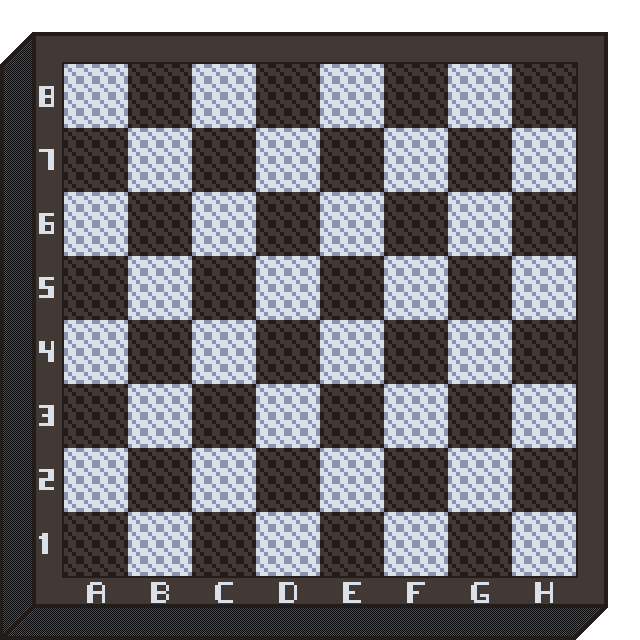
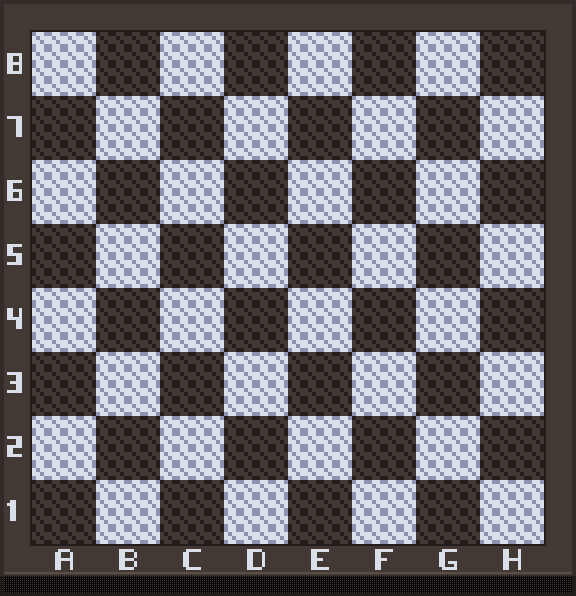
Update game sprites.

diff --git a/src/src/board/GameMaster.ts b/src/src/board/GameMaster.ts
@@ -1,7 +1,7 @@
 import { GameSquere } from "./GameSquere";
 import { TurnManager } from "./TurnManager";
 import { GameBoardConst } from "./GameBoardConst";
-import { GamePawnType, MovementType, PlayerType, SquereSuggestionCaptureInfo, SuggestionData } from "./types";
+import { GameOverType, GamePawnType, MovementType, PlayerType, SquereSuggestionCaptureInfo, SuggestionData } from "./types";
 import { addPointToPoint, getOppositeDirection } from "../GameUtils";
 import { ScoreBoard } from "./ScoreBoard";
 import { Point } from "../common/type";
@@ -149,7 +149,8 @@ export class GameMaster {
         this._selectedSquere.pawn?.highlight();
         this._boardStats.updateTurn(this._turnManager.currentTurn);
 
-        this.calculateSuggestion();
+        const info = this.calculateSuggestion();
+        this.checkForGameOver(info);
     }
 
 
@@ -177,8 +178,13 @@ export class GameMaster {
             return false;
         }
 
-        this.calculateSuggestion();
+        const info = this.calculateSuggestion();
         const canMove = this._suggestedFields.some(q => q.moveType === MovementType.CaptureAfterEnemy);
+
+        // check if game over
+        this.checkForGameOver(info);
+
+
         if (!canMove) {
             this.clearSuggestions();
         }
@@ -193,8 +199,8 @@ export class GameMaster {
         return lastSuggestion;
     }
 
-    private calculateSuggestion() {
-        if (!this._selectedSquere) return;
+    private calculateSuggestion(): SquereSuggestionCaptureInfo | null {
+        if (!this._selectedSquere) return null;
 
         const captureInfo = this.checkForCaptures();
         const suggestedFields = captureInfo.currentSquere;
@@ -214,6 +220,8 @@ export class GameMaster {
         }
 
         this._suggestedFields = suggestedFields;
+
+        return captureInfo;
     }
 
     private getSuggestions(startingSquere: GameSquere): SuggestionData[] {
@@ -378,7 +386,47 @@ export class GameMaster {
 
         return {
             currentSquere: selectedSquereSuggestions || [],
-            other: otherSuggestions || []
+            other: otherSuggestions || [],
+            currentPlayerSqueres
         };
+    }
+
+    private checkForGameOver(currentMoveInfo: SquereSuggestionCaptureInfo | null): GameOverType {
+
+        let res = GameOverType.None;
+
+        if (!currentMoveInfo) return res;
+
+        if (currentMoveInfo.currentPlayerSqueres.length === 0) {
+            // isGameOver = true;
+            res = GameOverType.NoPawns;
+        }
+
+        const allowedMoves = [MovementType.CaptureAfterEnemy, MovementType.Normal];
+        // currentMoveInfo.currentSquere.map(q => q.moveType).some(q => allowedMoves.includes(q));
+
+
+        const allMoves: SuggestionData[] = [];
+        allMoves.push(...currentMoveInfo.currentSquere, ...currentMoveInfo.other);
+        let anyMovesLeft = allMoves.reduce((prev, curr) => {
+            const tmp = prev || allowedMoves.includes(curr.moveType);
+            return tmp;
+        }, true);
+
+        if (!anyMovesLeft) {
+            res = GameOverType.NoMoves;
+        }
+        // if (currentMoveInfo.currentSquere.some(q => !allowedMoves.includes(q.moveType))) {
+        //     // isGameOver = true;
+        //     res = GameOverType.NoMoves;
+        // }
+
+
+        if (res !== GameOverType.None) {
+            alert("GAME OVER!\n" + `${this._turnManager.opponentType} winn!`);
+        }
+
+
+        return res;
     }
 }

diff --git a/src/src/board/GameSquere.ts b/src/src/board/GameSquere.ts
@@ -9,6 +9,7 @@ import { Point } from "../common/type";
 import * as phaser from "phaser";
 import { GameContext } from "../common/GameContex";
 import { GameBoardConst } from "./GameBoardConst";
+import { getPawnYOffset } from "./GameMasterUtils";
 
 
 interface GameSquereHandlersProps {
@@ -108,8 +109,8 @@ export class GameSquere {
     }
 
     addEffect(pawn: Pawn) {
-        this._effects.push(pawn);
         this.pawn?.hide();
+        this._effects.push(pawn);
     }
 
     removeEffects() {
@@ -250,7 +251,8 @@ export class Pawn {
     }
 
     move(point: Point) {
-        this.image?.setPosition(point.x, point.y);
+        const targetWordPos = getPawnYOffset(point, this.pawnType)
+        this.image?.setPosition(targetWordPos.x, targetWordPos.y);
     }
 
     removePawn() {
@@ -266,9 +268,10 @@ export class Pawn {
                 : GamePawnType.blackQueen;
         this.setPawnType(newType);
 
+        const pos = getPawnYOffset({ x: this.image!.x, y: this.image!.y }, this.pawnType);
         const queenImg = GameContext.instance.currentScene.add.image(
-            this._image!.x,
-            this._image!.y,
+            pos.x,
+            pos.y,
             AllBoardImageMap[newType]
         ).setName(newType).setInteractive();
         this._image!.destroy();
@@ -282,10 +285,14 @@ export class Pawn {
 
     hide() {
         this.image?.setVisible(false);
+        this.image?.setActive(false);
+        this.image?.disableInteractive();
     }
 
     show() {
         this.image?.setVisible(true);
+        this.image?.setActive(true);
+        this.image?.setInteractive();
     }
 
     unHighlight() {

diff --git a/src/src/board/GameBoard.ts b/src/src/board/GameBoard.ts
@@ -24,6 +24,7 @@ import { loadGame } from "../common/SaveGame";
 import { loadData, saveData } from "./GameBoardSaveManager";
 import { SceneConst } from "../common/SceneConst";
 import { createGameSquereRectangleHandlers, createPawn } from "./ObjectFactory";
+import { getPawnYOffset } from "./GameMasterUtils";
 
 export class GameBoard implements IGameLoopObject {
   private readonly _gameBoard: GameSquere[][] = [];
@@ -190,12 +191,13 @@ export class GameBoard implements IGameLoopObject {
     }
 
     getNewImage({ x: 32, y: 32 }, "game_board").setOrigin(0, 0);
-    GameContext.instance.currentScene.add.rectangle();
+    // GameContext.instance.currentScene.add.rectangle();
 
     const boardCellPosStyle = {
       fontFamily: GameBoardConst.fontFamily,
       color: "green",
     };
+
     for (let row = 0; row < GameBoardConst.numRows; row++) {
       this._gameBoard[row] = [];
       for (let col = 0; col < GameBoardConst.numCols; col++) {
@@ -226,11 +228,8 @@ export class GameBoard implements IGameLoopObject {
             ? GamePawnType.blackPawn
             : GamePawnType.whitePawn;
           const playerType = blackPawn ? PlayerType.black : PlayerType.white;
-          const pawnPos = addPointToPoint(gameSquere.wordPosition, {
-            x: 0,
-            y: -4,
-          });
 
+          const pawnPos = getPawnYOffset(gameSquere.wordPosition, pawnType);
           const img = getNewImage(pawnPos, pawnType).setName(pawnType).setInteractive();
           const pawnToAdd = createPawn(this, this._gameMaster, img, pawnType, playerType, gameSquere);
           gameSquere.addPawn(pawnToAdd);

diff --git a/src/src/scenes/GameBoardScene.ts b/src/src/scenes/GameBoardScene.ts
@@ -18,14 +18,7 @@ export class GameBoardScene extends Phaser.Scene {
     }
 
     preload(): void {
-        // this.load.spritesheet('game_board', 'assets/board/all_sprites.png', { });
-        this.load.spritesheet({
-            key: 'game_board',
-            url: 'assets/board/all_sprites.png',
-            frameConfig: { startFrame: 0, frameWidth: 576, frameHeight: 596, endFrame: 1, margin: 32 }
-        })
-
-        // this.load.image('game_board', 'assets/board/game_board.png');
+        this.load.image('game_board', 'assets/board/game_board.png');
 
         this.load.image('white_pawn', 'assets/board/white_pawn.png');
         this.load.image('black_pawn', 'assets/board/black_pawn.png');
@@ -34,9 +27,6 @@ export class GameBoardScene extends Phaser.Scene {
 
         this.load.image('shadow_pawn', 'assets/board/shadow_pawn.png');
         this.load.image('not_allowed', 'assets/board/not_allowed.png');
-
-        this.load.image('black_squere', 'assets/board/black_squere.png');
-        this.load.image('white_squere', 'assets/board/white_squere.png');
 
         this.load.image('menu_button_hover', 'assets/menu/button_bg_hover.png');
         this.load.image('menu_button', 'assets/menu/button_bg.png');

diff --git a/src/src/board/ObjectFactory.ts b/src/src/board/ObjectFactory.ts
@@ -5,6 +5,7 @@ import { GameBoard } from "./GameBoard";
 import { GameMaster } from "./GameMaster";
 import { GameSquere, Pawn } from "./GameSquere";
 import { GamePawnType, PlayerType } from "./types";
+import { addPointToPoint } from "../GameUtils";
 
 export const createPawn = (
     gameBoard: GameBoard,
@@ -35,7 +36,7 @@ export const createPawn = (
                 const suggestedMove = gameMaster.getSuggestion4Field(gameSquere)!;
                 currentScene.input.setDefaultCursor("pointer");
 
-                const img = getNewImage(gameSquere.wordPosition, suggestedMove.effect);
+                const img = getNewImage(addPointToPoint(gameSquere.wordPosition, { x: 0, y: -7 }), suggestedMove.effect);
                 const effect = Pawn.new({
                     image: img,
                     type: suggestedMove.effect,
@@ -91,7 +92,7 @@ export const createGameSquereRectangleHandlers = (
                 currentScene.input.setDefaultCursor("pointer");
 
                 const img = getNewImage(
-                    parent.wordPosition,
+                    addPointToPoint(parent.wordPosition, { x: 0, y: -7 }),
                     suggestedMove.effect
                 ).setInteractive();
 

diff --git a/src/src/board/GameBoardSaveManager.ts b/src/src/board/GameBoardSaveManager.ts
@@ -5,6 +5,7 @@ import { BoardStats } from "./BoardStats";
 import { GameBoard } from "./GameBoard";
 import { GameBoardConst } from "./GameBoardConst";
 import { GameMaster } from "./GameMaster";
+import { getPawnYOffset } from "./GameMasterUtils";
 import { GameSquere } from "./GameSquere";
 import { createPawn } from "./ObjectFactory";
 import { TurnManager } from "./TurnManager";
@@ -19,7 +20,7 @@ export const loadData = (gameBoard: GameBoard, turnManager: TurnManager, gameMas
         const { pawnType, playerType, position } = data.board[i];
         const { x, y } = position;
         const wordPos = getBoardPos(x, y);
-        const img = getNewImage(wordPos, pawnType).setInteractive();
+        const img = getNewImage(getPawnYOffset(wordPos, pawnType), pawnType).setInteractive();
         const newPawn = createPawn(gameBoard, gameMaster, img, pawnType, playerType, gameBoardSqueres[y][x]);
         gameBoardSqueres[y][x].addPawn(newPawn);
     }

diff --git a/src/src/board/GameMasterUtils.ts b/src/src/board/GameMasterUtils.ts
@@ -1,3 +1,4 @@
+import { addPointToPoint } from "../GameUtils";
 import { Point } from "../common/type";
 import { GameBoardConst } from "./GameBoardConst";
 import { GamePawnType } from "./types";
@@ -17,3 +18,10 @@ export const inGameBoardBounds = (targetPoint: Point) => {
 }
 
 export const directionArray: Point[] = [{ x: 1, y: 1 }, { x: -1, y: 1 }, { x: 1, y: -1 }, { x: -1, y: -1 }];
+
+
+export const getPawnYOffset = (wordPos: Point, pawnType: GamePawnType): Point => {
+    const offset = pawnType === (GamePawnType.blackPawn || GamePawnType.whitePawn) ? -7 : -3;
+    const res = addPointToPoint(wordPos, { x: 0, y: offset })
+    return res;
+}

diff --git a/src/src/board/types.ts b/src/src/board/types.ts
@@ -61,6 +61,12 @@ export const AllBoardImageValues = [...Object.values(BoardSpriteMap), ...Object.
 export const AllBoardImageMap = { ...BoardSpriteMap, ...PawnSpritesMap, "game_board": "game_board" };
 
 
+export enum GameOverType {
+    None,
+    NoPawns,
+    NoMoves
+}
+
 //
 // interfaces
 //
@@ -87,4 +93,5 @@ export interface SuggestionData {
 export interface SquereSuggestionCaptureInfo {
     currentSquere: SuggestionData[];
     other: SuggestionData[];
+    currentPlayerSqueres: GameSquere[];
 }
